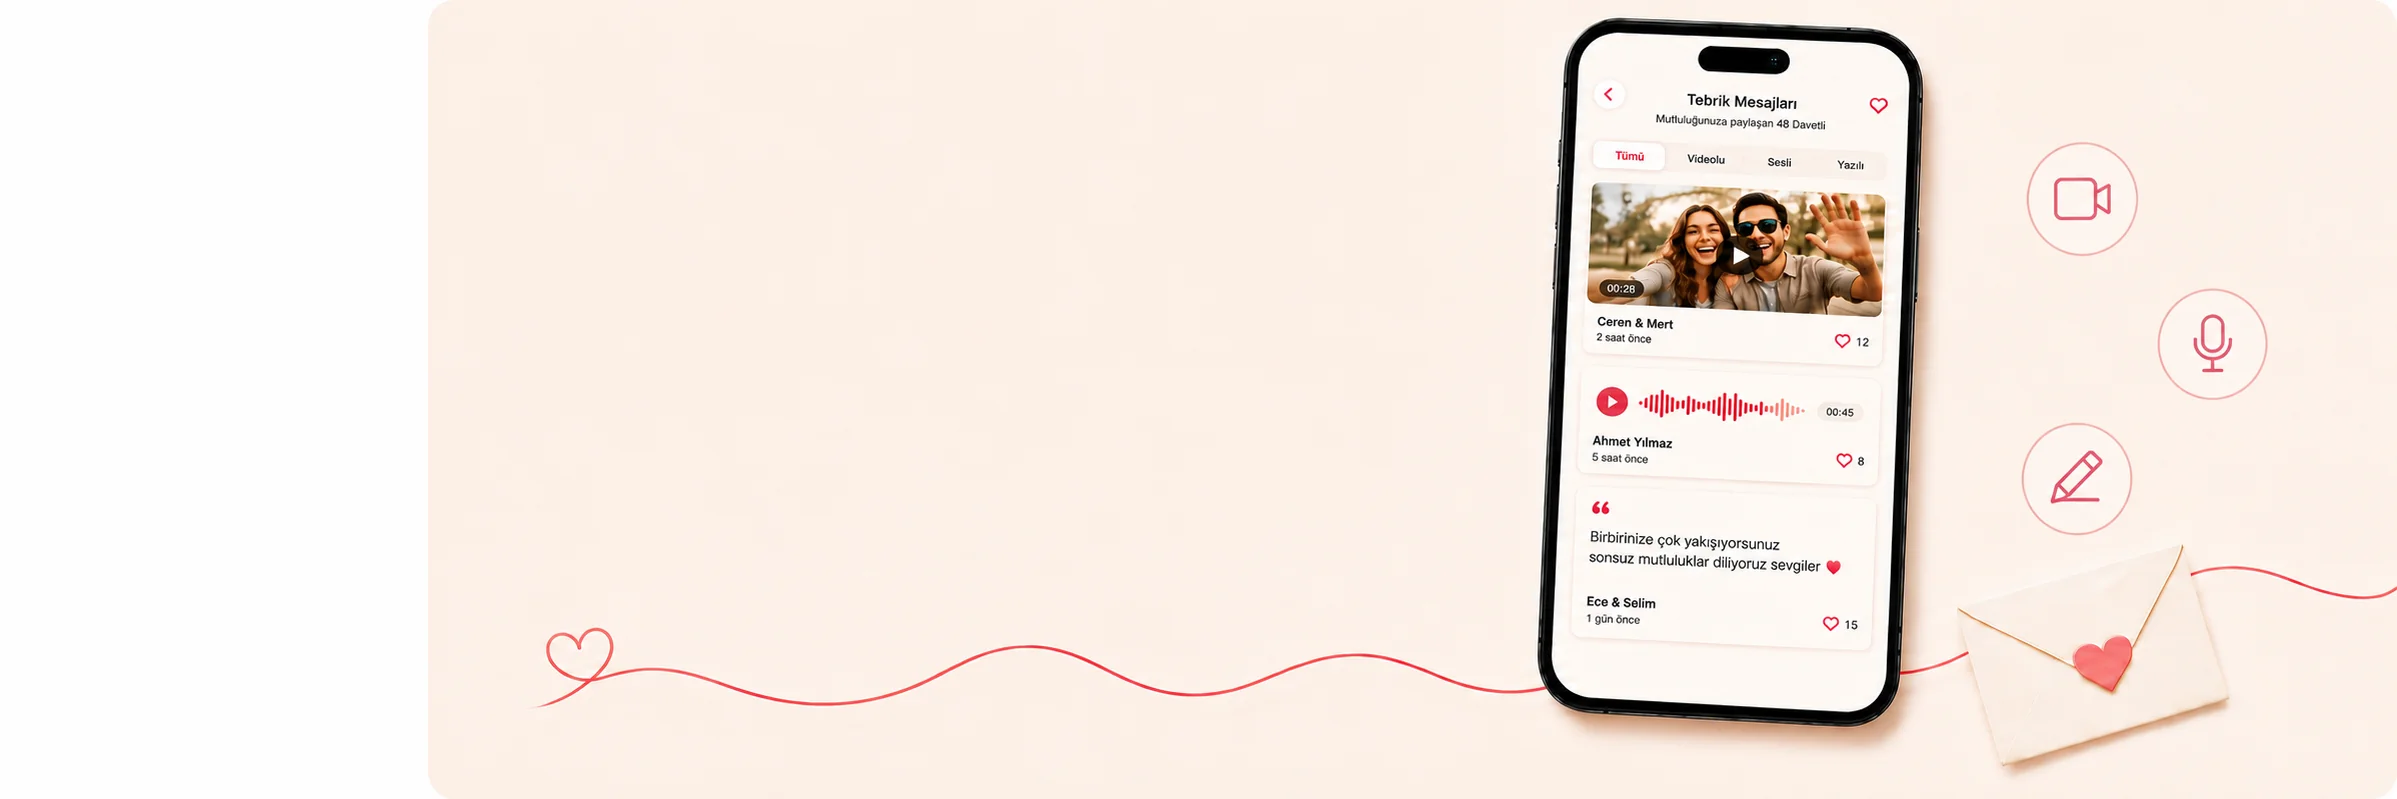
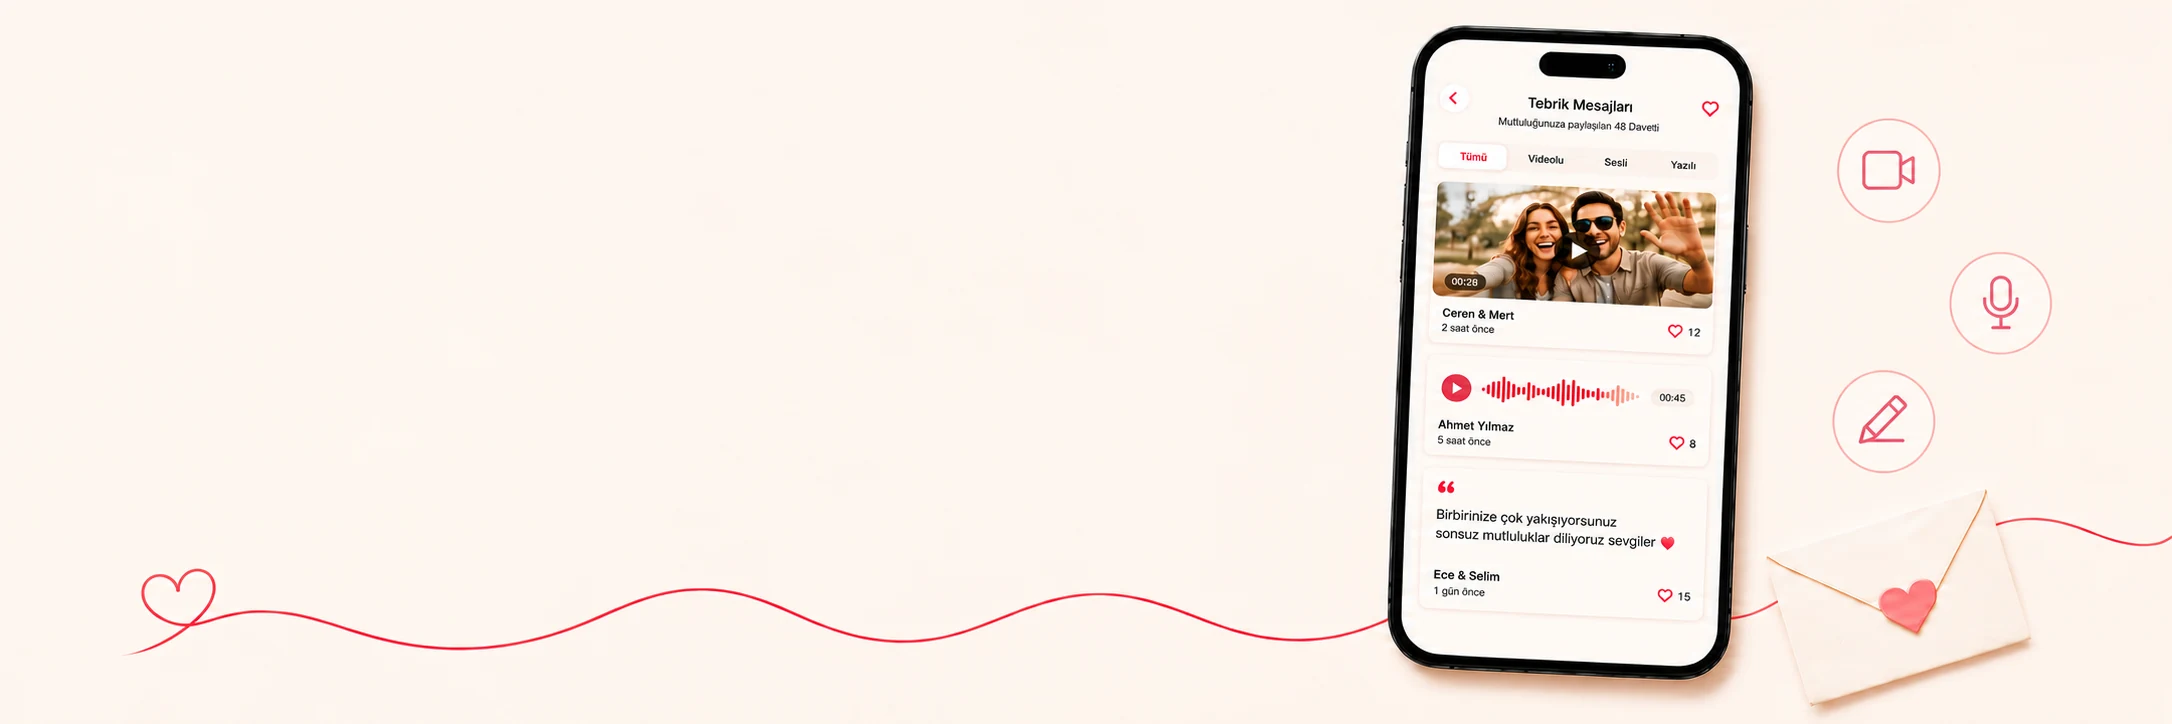
Masa ve tebrik masaustu kartlarini yeni 3:1 gorsellerle degistir
- Yeni tam 3:1 (2172x724) gorseller: kart-masa-masaustu.webp, bg-tebrik-masaustu.webp
- Tebrik img object-contain -> object-cover (kenar seridi/beyazlik gitti)
- Masa kenar beyazligi ve tebrik sol beyaz blok sorunu cozuldu

diff --git a/app/page.tsx b/app/page.tsx
@@ -1143,7 +1143,7 @@ export default function Home() {
           </div>
           {/* Masaüstü kart (değişmedi) */}
           <div className="feature-card-hover hidden lg:block relative rounded-[28px] overflow-hidden mx-auto w-full lg:aspect-[3/1] lg:max-w-none" style={{ boxShadow: '0 18px 50px rgba(72,47,42,0.055), 0 2px 8px rgba(72,47,42,0.025)', border: '1px solid rgba(174,112,108,0.13)' }}>
-            <img src="/bg-tebrik-masaustu.webp" alt="Tebrik mesajlarınızı kabul edin" className="hidden lg:block absolute inset-0 w-full h-full object-contain pointer-events-none select-none" />
+            <img src="/bg-tebrik-masaustu.webp" alt="Tebrik mesajlarınızı kabul edin" className="hidden lg:block absolute inset-0 w-full h-full object-cover pointer-events-none select-none" />
 
             {/* Masaüstü — içerik solda ortalı, feature'lar açıklama altında alt alta */}
             <div className="hidden lg:flex absolute left-0 top-0 h-full w-[52%] flex-col justify-center -translate-y-[10px] pl-[176px] pr-4">
